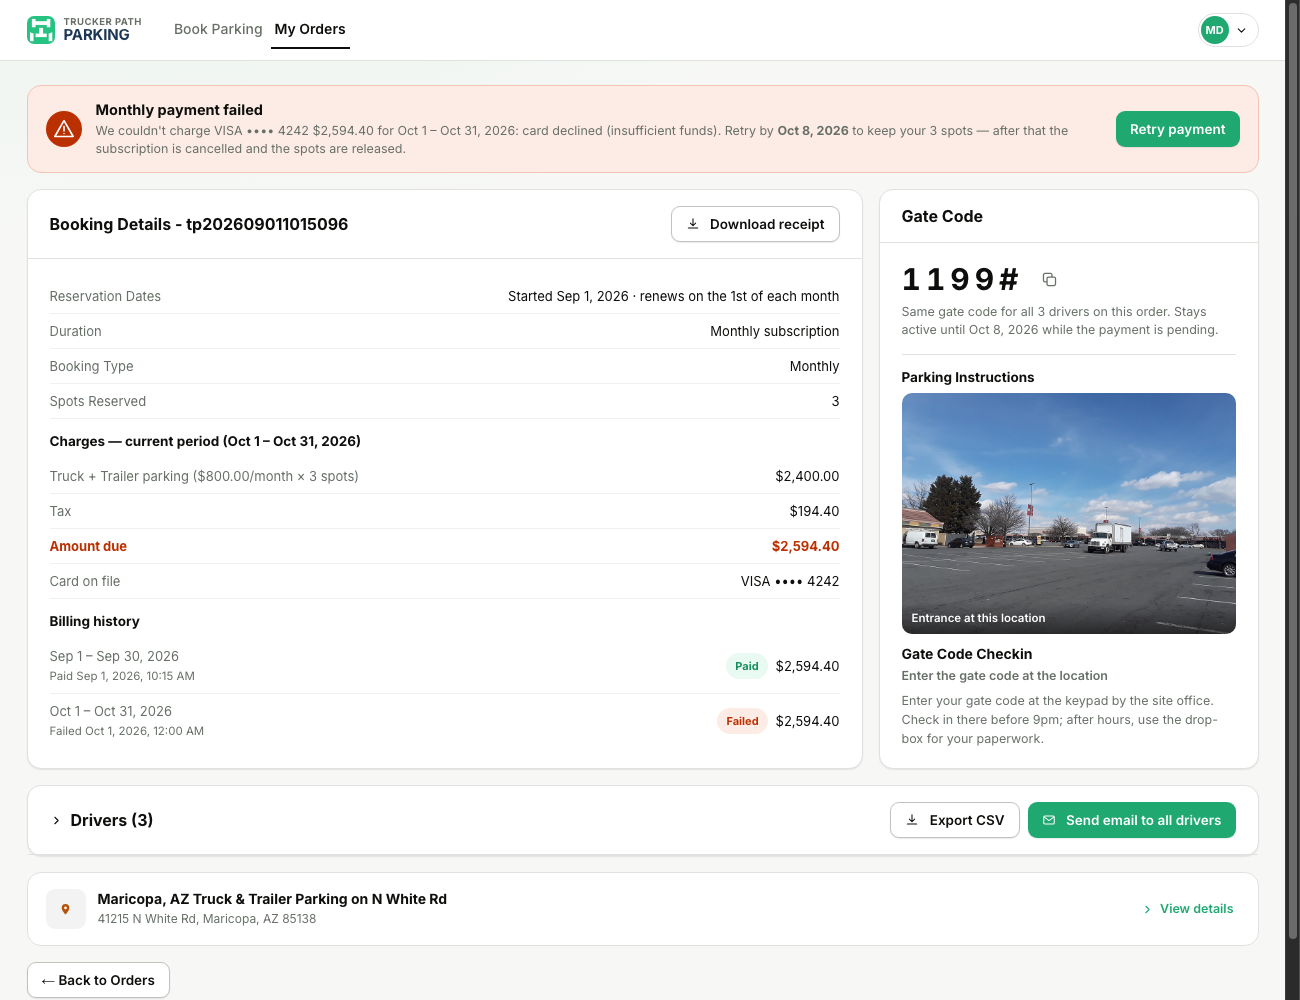
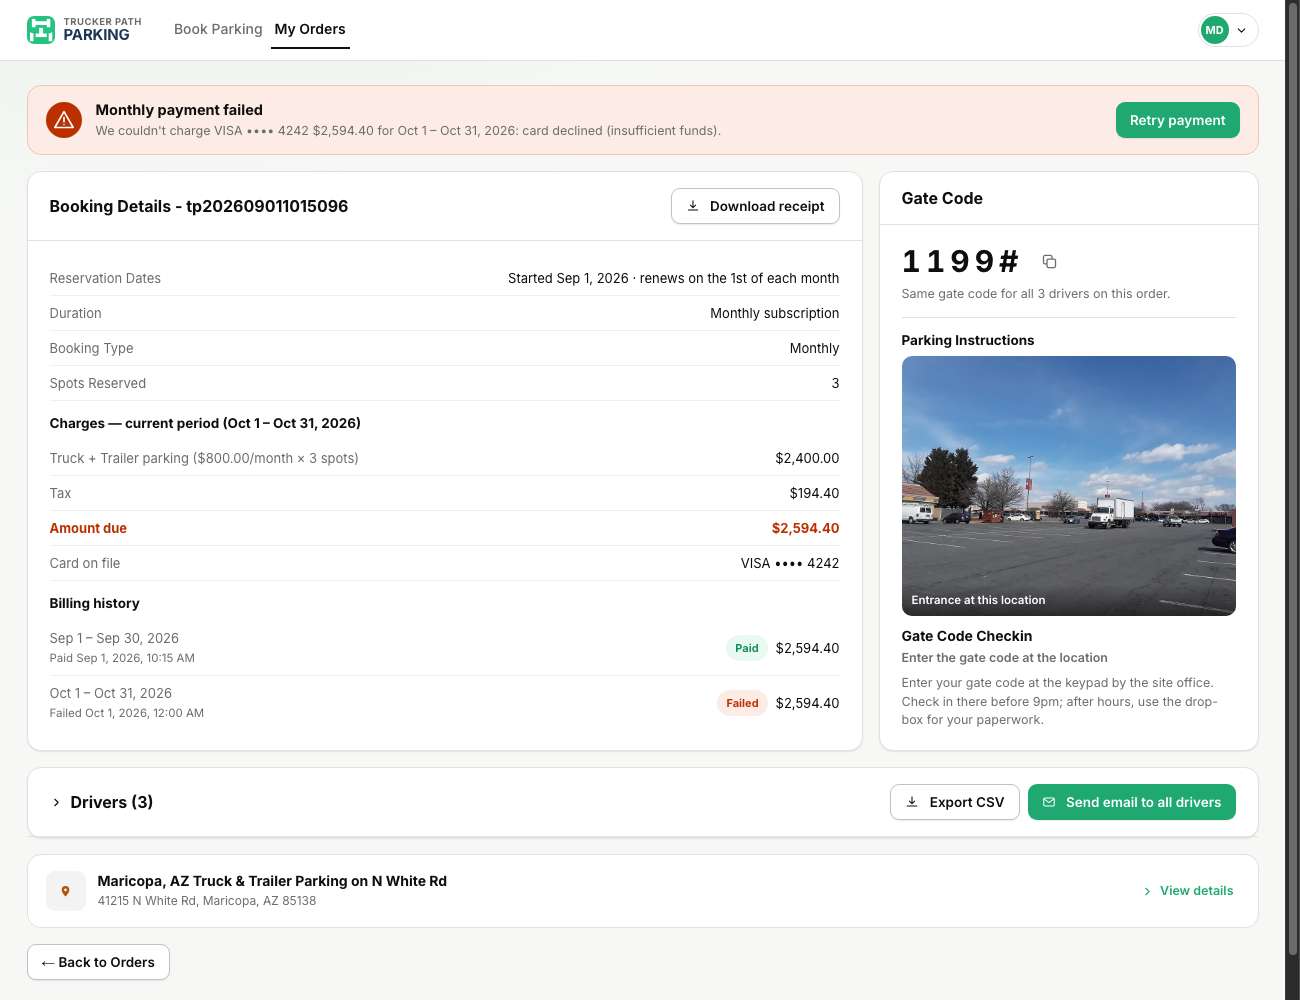
Remove retry-by deadline and grace-period caption from failed monthly payment

diff --git a/index.html b/index.html
@@ -489,7 +489,7 @@ const S = {
   ordersHistory: [
     // monthly subscription whose Oct 1 renewal was declined — drives the failed-payment / Retry state
     {id:'tp202609011015096', loc:'Maricopa, AZ — N White Rd Truck & Trailer Yard', lotId:'maricopa', dates:'Since Sep 1, 2026 · monthly', spots:3, paidOn:'Sep 1, 2026, 10:15 AM', status:'Payment failed', type:'batch',
-      subscription:{ start:'Sep 1, 2026', vtype:'Truck + Trailer', cardId:'card_visa', retryBy:'Oct 8, 2026',
+      subscription:{ start:'Sep 1, 2026', vtype:'Truck + Trailer', cardId:'card_visa',
         history:[ {period:'Sep 1 – Sep 30, 2026', on:'Sep 1, 2026, 10:15 AM', status:'Paid'},
                   {period:'Oct 1 – Oct 31, 2026', on:'Oct 1, 2026, 12:00 AM', status:'Failed', reason:'card declined (insufficient funds)'} ] }},
     {id:'tp202607070903104', loc:'Eloy, AZ — PICACHO RV & TRUCK PARK', lotId:'eloy', dates:'Jul 14 – Jul 17, 2026', spots:22, paidOn:'Jul 7, 2026, 9:03 AM', status:'Paid', type:'batch'},
@@ -2056,7 +2056,7 @@ function orderDetailPage(d){
       <div class="pay-alert-ic">${ic.warn}</div>
       <div style="flex:1;min-width:0">
         <div class="pay-alert-title">Monthly payment failed</div>
-        <div class="pay-alert-text">We couldn't charge ${card.brand} •••• ${card.last4} ${fmtUSD(pi.amount)} for ${pi.period}: ${pi.reason}. Retry by <b>${pi.retryBy}</b> to keep your ${d.spots} spots — after that the subscription is cancelled and the spots are released.</div>
+        <div class="pay-alert-text">We couldn't charge ${card.brand} •••• ${card.last4} ${fmtUSD(pi.amount)} for ${pi.period}: ${pi.reason}.</div>
       </div>
       <button class="btn btn-primary" id="retryPaymentBtn">Retry payment</button>
     </div>` : ''}
@@ -2124,9 +2124,9 @@ function detailFromSubscription(order){
     chargeRows: [{ label: `${sub.vtype} parking (${fmtUSD(c.rate)}/month × ${order.spots} spots)`, price: c.subtotal }],
     note: '', tax: c.tax, total: c.total, paidOn: null, refundedOn: null, cardId: sub.cardId,
     billingHistory: sub.history.map(h=>({ ...h, amount: c.total })),
-    paymentIssue: failed ? { period: current.period, reason: current.reason, retryBy: sub.retryBy, amount: c.total } : null,
+    paymentIssue: failed ? { period: current.period, reason: current.reason, amount: c.total } : null,
     gateCode: '1199#',
-    gateCaption: failed ? `${access} Stays active until ${sub.retryBy} while the payment is pending.` : access,
+    gateCaption: access,
     vtype: sub.vtype,
     vehicles: Array.from({length: order.spots}, (_,i)=>buildVehicleFormRow(i)),
   };
